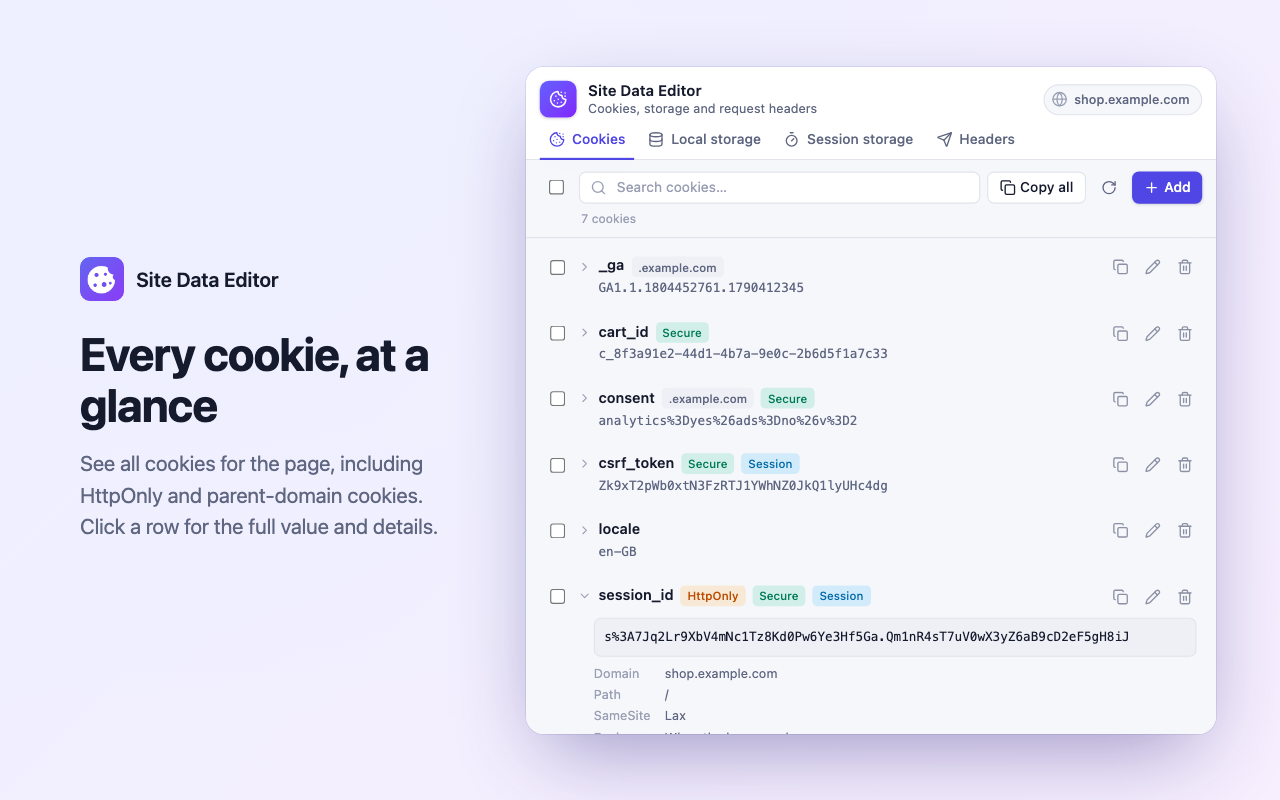
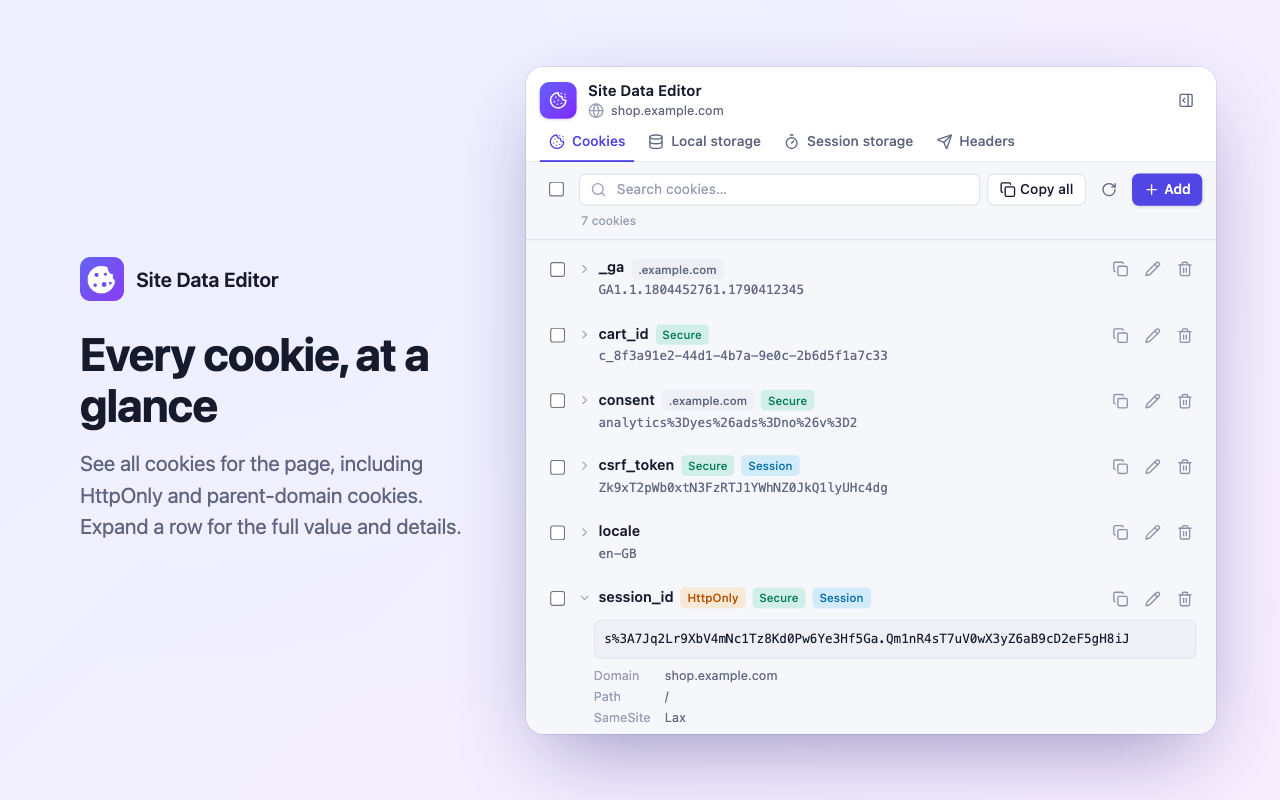
Close the side panel from its own header, and refresh the store screenshots
The side panel gets a close button where the popup has its open button,
so the two act as a toggle. It uses sidePanel.close() where available and
falls back to closing the panel page. Screenshots are regenerated for the
new header, plus a sixth one showing the side panel.

diff --git a/components/App.tsx b/components/App.tsx
@@ -1,5 +1,5 @@
 import { useEffect, useState } from 'react';
-import { Cookie, Database, Globe, PanelRightOpen, Send, ShieldOff, Timer } from 'lucide-react';
+import { Cookie, Database, Globe, PanelRightClose, PanelRightOpen, Send, ShieldOff, Timer } from 'lucide-react';
 import { CookiesPanel } from '@/components/CookiesPanel';
 import { HeadersPanel } from '@/components/HeadersPanel';
 import { StoragePanel } from '@/components/StoragePanel';
@@ -35,6 +35,15 @@ function App({ mode }: Props) {
   const openSidePanel = () => {
     if (windowId == null) return;
     browser.sidePanel.open({ windowId }).then(() => window.close(), console.error);
+  };
+
+  // sidePanel.close() is new (Chrome 141); closing the panel's own page works everywhere else.
+  const closeSidePanel = () => {
+    if (windowId != null && typeof browser.sidePanel.close === 'function') {
+      browser.sidePanel.close({ windowId }).catch(() => window.close());
+    } else {
+      window.close();
+    }
   };
   const [active, setActive] = useState<TabId>('cookies');
   const [iconFailed, setIconFailed] = useState(false);
@@ -81,6 +90,11 @@ function App({ mode }: Props) {
                 disabled={windowId == null}
               >
                 <PanelRightOpen />
+              </IconButton>
+            )}
+            {mode === 'sidepanel' && (
+              <IconButton label="Close side panel" onClick={closeSidePanel}>
+                <PanelRightClose />
               </IconButton>
             )}
           </div>

diff --git a/store/listing.md b/store/listing.md
@@ -55,7 +55,7 @@ cookie editor, cookies, local storage, session storage, request headers, develop
 
 ### Images
 - Store logo (300×300): `store/logo-300.png`
-- Screenshots (1280×800): `store/screenshots/1-cookies.png` … `5-dark-mode.png`
+- Screenshots (1280×800): `store/screenshots/1-cookies.png` … `6-side-panel.png`
 
 ## Permission justifications
 Use these if Partner Center or the reviewers ask why each permission is needed.
@@ -80,7 +80,7 @@ How to test:
 2. Click the Site Data Editor toolbar icon.
 3. Cookies tab: click Add, enter a name and value, and Save. The cookie appears in the list. Click the arrow next to its name to expand the full value; use Copy, Edit and Delete on the row.
 4. Local storage tab: Add an item (e.g. key "test", value "123"), reload the page and reopen the popup; the item is still there.
-5. Side panel: click the panel icon at the top right of the popup. The editor opens in the side panel; switch tabs and it shows the new tab's data.
+5. Side panel: click the panel icon at the top right of the popup. The editor opens in the side panel; switch tabs and it shows the new tab's data. The icon at the top right of the panel closes it.
 6. Headers tab: Add a header (e.g. "X-Test: hello") for the site's domain, reload the page, and check DevTools > Network > Request Headers: X-Test is sent.
 
 The extension makes no network requests of its own and collects no data.
